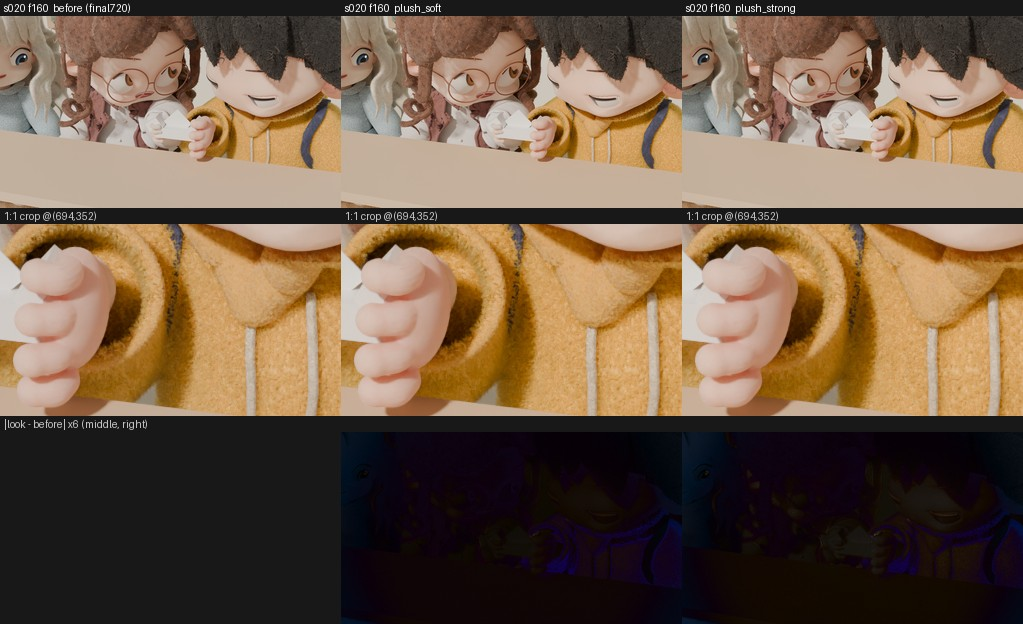
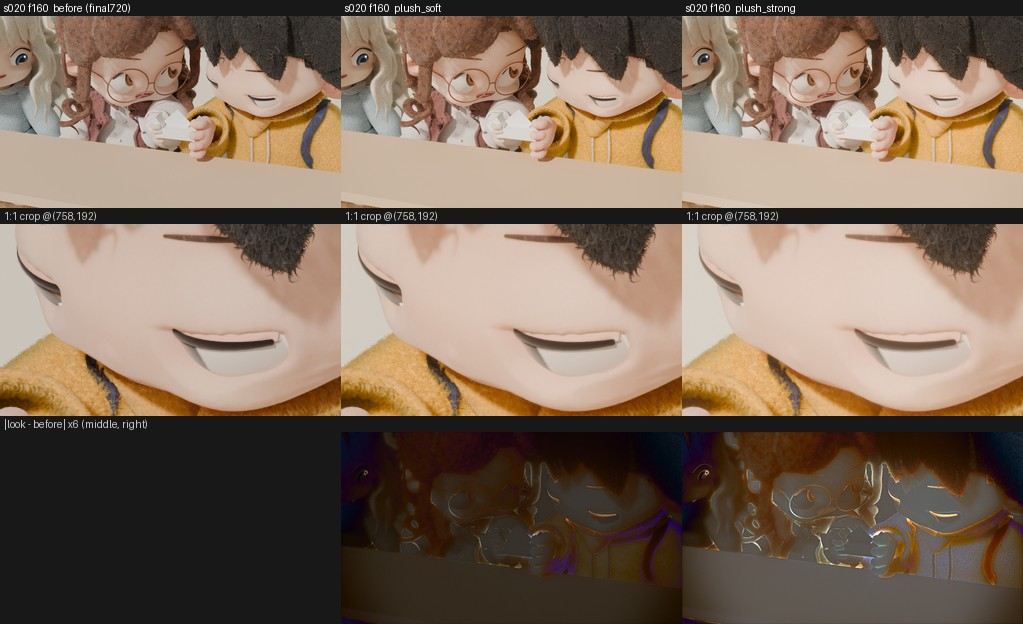
T-199: final720 side-by-side sheets (plush_soft / plush_strong), timings, README
Claude-Session: https://claude.ai/code/session_01NPjxeLdrDJrSXXNtaCUK5V

diff --git a/docs/evaluation/rendering/T-199/README.md b/docs/evaluation/rendering/T-199/README.md
@@ -1,0 +1,87 @@
+# T-199 · Compositor look preset ("plush_soft") — opt-in, awaiting owner approval
+
+Branch `t-199-claude-compositor-look`. Source: T-196 report §4 Q2. **Nothing uses the look unless a profile asks for it;
+the owner has not approved it yet, so it is not applied to any episode, shot or released asset.**
+
+## What was built
+- `pipeline/charsys/render_engine.py`: `apply_compositor_look(scene, cfg)`, called from `apply_profile` **only when the
+  profile has a `"compositor"` block**. No block = the previous code path, no compositor attribute touched.
+- `pipeline/charsys/render_profiles.json`: one new profile, `final720_look` = `final720` (same resolution, samples,
+  adaptive threshold) + the `compositor` block below. `final720`, `review`, `legacy128` and `default_profile` are unchanged.
+  Select with `--profile final720_look` (no change to `shot_render.py` / `run_shot.py` needed: `shot_render` already
+  records what `apply_profile` returns).
+- Recorded in the run report (`shot_render.json` → `profile.applied.compositor`): look name, all resolved parameters,
+  Blender version, node chain.
+- Tests: `pipeline/charsys/tests/test_render_profiles.py` (all pass). Without the block `apply_profile` returns today's dict
+  and a tiny fixed-seed Cycles render is **pixel-identical** to the pre-T-199 settings and creates no node tree. With the
+  look the image changes, two renders are pixel-identical (deterministic), the chain is recorded, unknown keys are refused,
+  and Blender 6.0 is refused with a clear `ValueError`.
+
+## Node chain (all Blender built-in, no external tools)
+`Render Layers → Glare (Fog Glow) → Color Balance (lift/gamma/gain, warm gain) → Color Correction (saturation) →
+[vignette: Ellipse Mask → Blur (size = image size × softness, via Image Info) → Math (mask·s + 1−s) → Mix multiply] → Group Output`.
+Eleven nodes. It runs in scene-linear before the view transform, and the vignette scales with the render resolution.
+
+| `plush_soft` (in JSON) | value |
+| --- | --- |
+| glow | Fog Glow, quality High, threshold 0.5, smoothness 0.6, strength 0.6, size 0.6 |
+| grade | saturation 1.08, gain (1.03, 1.00, 0.96), lift neutral |
+| vignette | strength 0.12 (corners 12 % darker), ellipse 0.95 × 0.95, softness 0.2 |
+
+`plush_strong` (the "stronger" variant requested for the comparison; **not** in the JSON unless the owner picks it): glow
+threshold 0.35, smoothness 0.8, strength 1.0, size 0.7; saturation 1.10, gain (1.04, 1.00, 0.95); vignette 0.22.
+
+## Blender API note (the 6.0 risk)
+Written for Blender **5.x only** (checked on 5.3.0). 5.x builds the look as a `CompositorNodeTree` on
+`Scene.compositing_node_group` with a Group Output (no Composite node; `Glare` type/quality are input sockets). 4.x used
+`use_nodes` + `node_tree` + Composite and node properties; 6.0 changes the API again (deprecation warning in the T-196
+probe). Outside 5.x the function raises `ValueError` naming the Blender version, so a look render never silently comes out
+without the look. The version check and the whole tree build are in this one function, so a 6.0 port is a local change.
+All node and socket names are looked up by name/identifier, and unknown settings in the block are refused.
+
+## Side-by-side (copies only; nothing in `episodes/` or released assets changed)
+Frames of the T-187 paper-boat scenes (cast `current`), baked into git-ignored `build/` folders, then rendered with the real
+`shot_render.py` at **final720 settings** (1280×720, 128 spp, OIDN, adaptive 0.05), one frame per Blender run:
+`s020 f80` (shot 3: the boat is shown), `s020 f160` (shot 4: hand-over), `s010 f140` (shot 2: close on the girl).
+Each sheet is 1023 px wide: row 1 full frame before | plush_soft | plush_strong; row 2 the same 1:1 crop (placed where the
+look changes most); row 3 |after − before| × 6.
+
+| Sheet | |
+| --- | --- |
+| [`s020_f080_sheet.jpg`](s020_f080_sheet.jpg) | shot 3, three faces + boat |
+| [`s020_f160_sheet.jpg`](s020_f160_sheet.jpg) | shot 4, hand-over, boy's hoodie fibres |
+| [`s010_f140_sheet.jpg`](s010_f140_sheet.jpg) | shot 2, girl's face, hair, paper |
+
+What it does: highlights get a soft halo (cheeks, paper, knuckles), skin and the table go slightly warmer, colours a touch
+richer, the frame edges slightly darker. Fibres stay sharp (the glow is a blur added on top, not applied to the base image).
+Mean change is about 5.4/255 per channel, maximum about 27–37/255, so it is clearly visible but gentle.
+**First pass note:** the first parameters (glow 0.25, vignette 6 %) changed the image by only ~1.5/255 and were not
+judgeable, so they were retuned on linear EXRs before the final renders; the JSON holds the retuned values.
+
+## Render time with / without (this container, 4 CPU cores, Blender 5.3 bpy build, one frame per run)
+Render seconds per frame (`shot_render.json: render_s`), setup ≈ 37–42 s in every run:
+
+| Frame | no look | plush_soft | plush_strong |
+| --- | --- | --- | --- |
+| s020 f80 | 509.6 | 485.5 | 482.2 |
+| s020 f160 | 866.8 | 846.7 | 836.9 |
+| s010 f140 | 811.3 | 813.4 | 810.1 |
+| mean | 729.2 | 715.2 | 709.7 |
+
+The differences (−5 % … +0.3 %) are run-to-run noise on this machine; the compositor adds no measurable time (a few
+seconds at most against 8–14 min of Cycles per frame). The absolute times are slower than the ~208 s of T-124 because
+this is a 4-core CPU box and these are close-up, fibre-heavy frames.
+
+## How to reproduce
+```
+python3 pipeline/production/run_shot.py --shot episodes/e912_paper_boat/shots/s020/shot.scene.json --blender <b> --stages prepare,bake --run-dir t199
+# one frame of the bake -> shot_render with --profile final720 or final720_look (episodes/e912_paper_boat/preview.py does the subset-bake step)
+python3 pipeline/charsys/tests/test_render_profiles.py
+```
+The strong variant was rendered from a scratch copy of `pipeline/` whose `render_profiles.json` had an extra
+`final720_look_strong` profile; the repository only holds `final720_look`.
+
+## Notes
+- PNG file bytes differ between otherwise identical renders (identical pixels), so the tests hash pixels, not files.
+- Open for the owner: approve `plush_soft` as is / pick `plush_strong` / ask for other values; then (a separate task) decide
+  whether any episode profile should point at it. This task changes no default.
